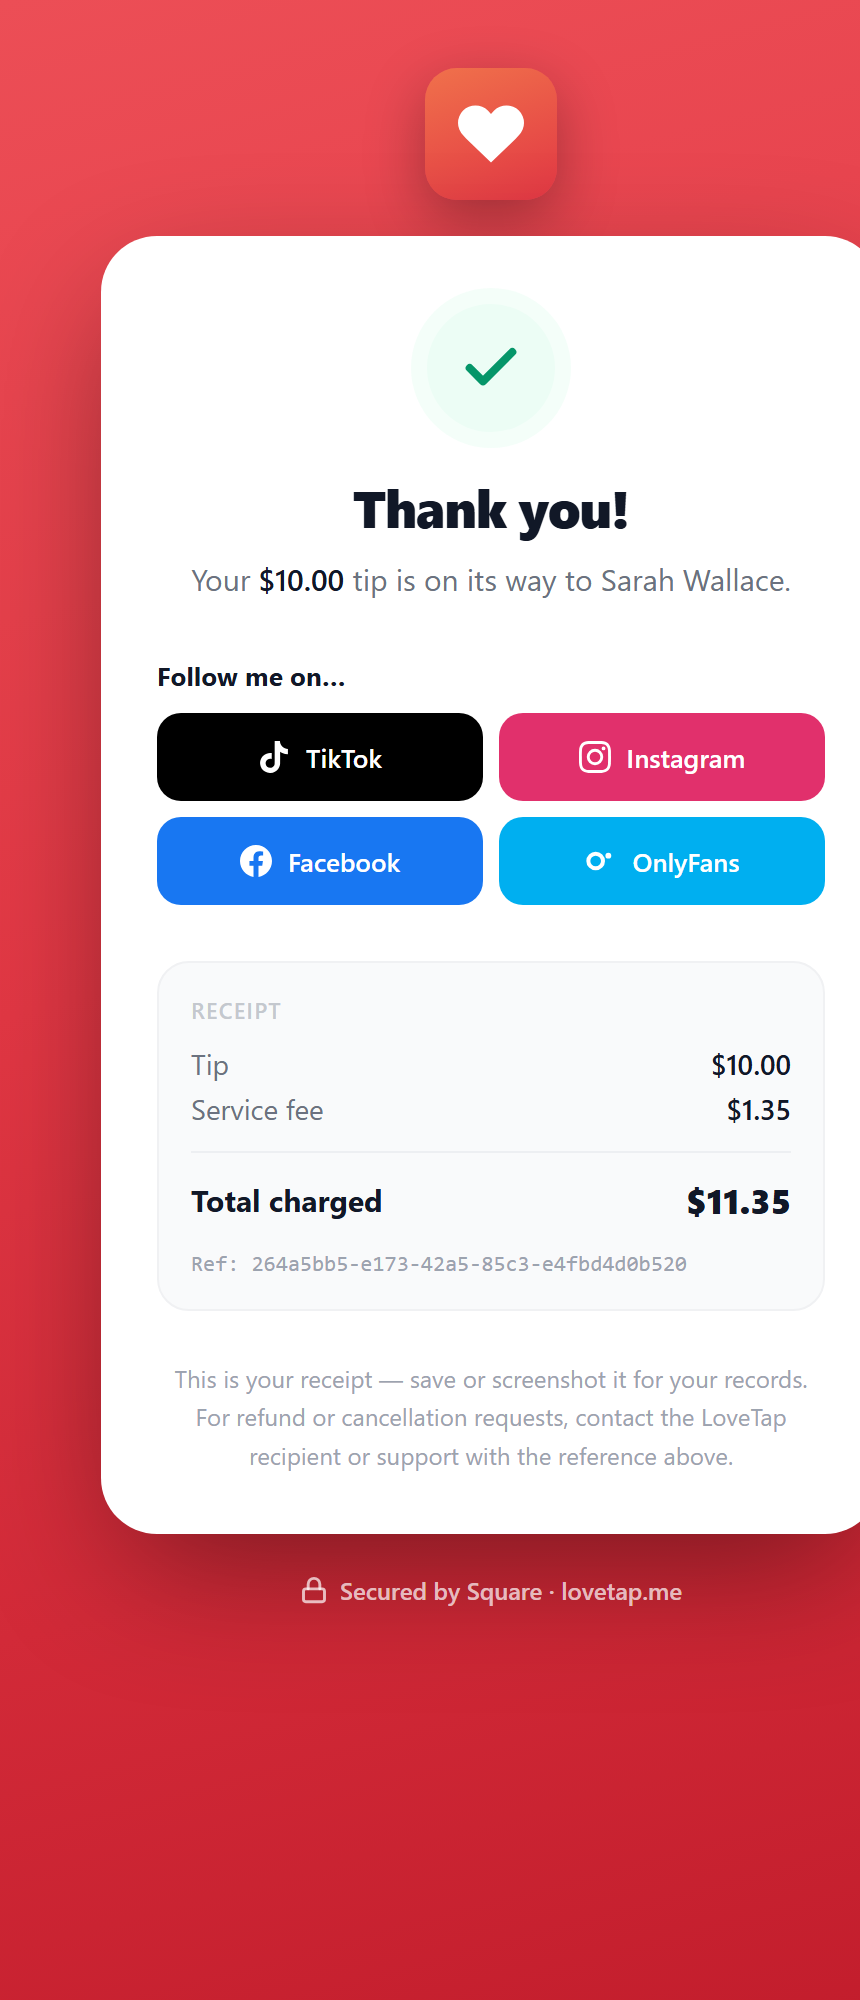
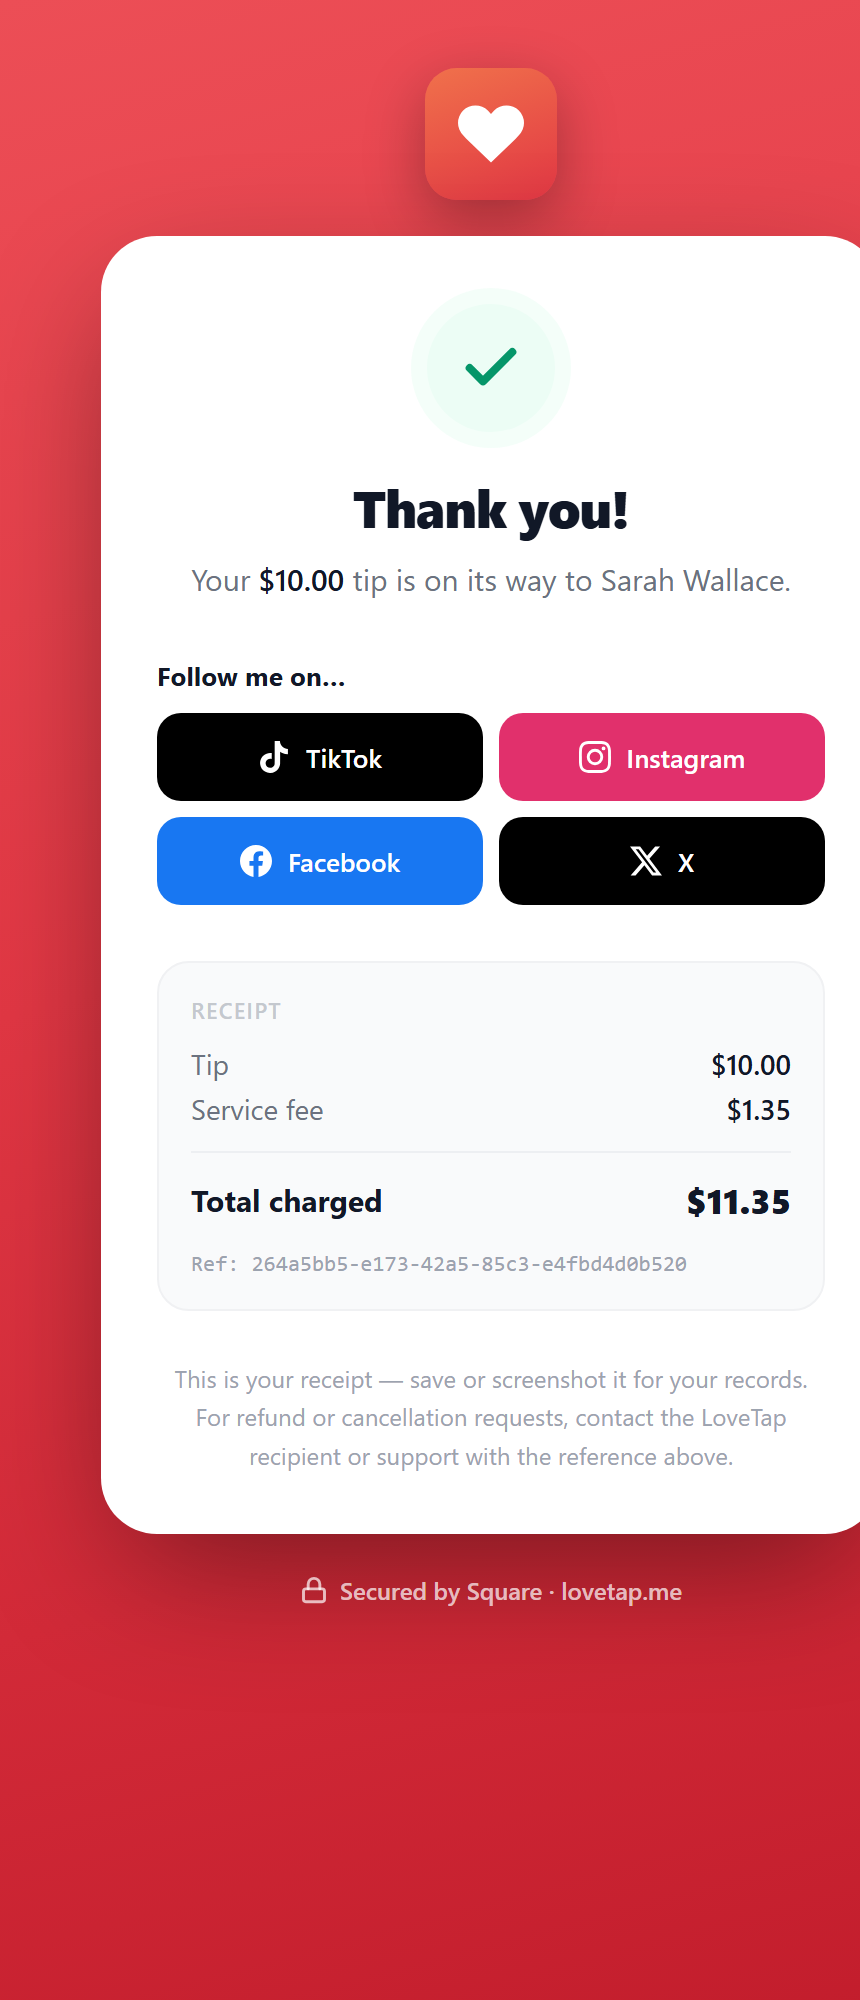
Replace OnlyFans with X across socials (model, profile, tip page, admin, guides)

Changed region(s): [[0.5744, 0.403, 0.9674, 0.465]]

diff --git a/src/app/t/[uid]/tip-flow.tsx b/src/app/t/[uid]/tip-flow.tsx
@@ -21,7 +21,7 @@ interface Quote {
     tiktok?: string;
     instagram?: string;
     facebook?: string;
-    onlyfans?: string;
+    x?: string;
   };
   square: {
     applicationId: string | null;
@@ -729,7 +729,7 @@ const SOCIAL_BRAND: Record<string, string> = {
   tiktok: "#000000",
   instagram: "#E1306C",
   facebook: "#1877F2",
-  onlyfans: "#00AFF0",
+  x: "#000000",
 };
 
 // Brand glyphs (white, sized to the button). Simple recognizable marks.
@@ -753,11 +753,10 @@ function SocialIcon({ platform }: { platform: string }) {
         <path d="M12.53.02C13.84 0 15.14.01 16.44 0c.08 1.53.63 3.09 1.75 4.17 1.12 1.11 2.7 1.62 4.24 1.79v4.03c-1.44-.05-2.89-.35-4.2-.97-.57-.26-1.1-.59-1.62-.93-.01 2.92.01 5.84-.02 8.75-.08 1.4-.54 2.79-1.35 3.94-1.31 1.92-3.58 3.17-5.91 3.21-1.43.08-2.86-.31-4.08-1.03-2.02-1.19-3.44-3.37-3.65-5.71-.02-.5-.03-1-.01-1.49.18-1.9 1.12-3.72 2.58-4.96 1.66-1.44 3.98-2.13 6.15-1.72.02 1.48-.04 2.96-.04 4.44-.99-.32-2.15-.23-3.02.37-.63.41-1.11 1.04-1.36 1.75-.21.51-.15 1.07-.14 1.61.24 1.64 1.82 3.02 3.5 2.87 1.12-.01 2.19-.66 2.77-1.61.19-.33.4-.67.41-1.06.1-1.79.06-3.57.07-5.36.01-4.03-.01-8.05.02-12.07" />
       </svg>
     );
-  // OnlyFans — the ring "o" mark.
+  // X (formerly Twitter) — the X mark.
   return (
-    <svg viewBox="0 0 24 24" fill="none" className={c}>
-      <circle cx="8" cy="12" r="5.5" stroke="currentColor" strokeWidth="3" />
-      <circle cx="17.5" cy="8" r="2.2" fill="currentColor" />
+    <svg viewBox="0 0 24 24" fill="currentColor" className={c}>
+      <path d="M18.9 1.15h3.68l-8.04 9.19L24 22.85h-7.41l-5.8-7.58-6.64 7.58H.46l8.6-9.83L0 1.15h7.59l5.24 6.93 6.07-6.93Zm-1.3 19.5h2.04L6.49 3.24H4.3l13.3 17.41Z" />
     </svg>
   );
 }
@@ -767,7 +766,7 @@ function SocialIcon({ platform }: { platform: string }) {
 function FollowLinks({
   socials,
 }: {
-  socials?: { tiktok?: string; instagram?: string; facebook?: string; onlyfans?: string };
+  socials?: { tiktok?: string; instagram?: string; facebook?: string; x?: string };
 }) {
   if (!socials) return null;
   const links = SOCIAL_PLATFORMS.map((p) => ({

diff --git a/src/app/(dashboard)/customers/[id]/page.tsx b/src/app/(dashboard)/customers/[id]/page.tsx
@@ -8,7 +8,7 @@ import { formatCurrency, formatDate, formatDateTime } from "@/lib/utils";
 import { SOCIAL_PLATFORMS, socialUrl } from "@/lib/socials";
 
 type CustomerData = {
-  customer: { _id: string; name: string; email: string; phone: string; bankAccountStatus: string; active: boolean; createdAt: string; socials?: { tiktok?: string; instagram?: string; facebook?: string; onlyfans?: string } };
+  customer: { _id: string; name: string; email: string; phone: string; bankAccountStatus: string; active: boolean; createdAt: string; socials?: { tiktok?: string; instagram?: string; facebook?: string; x?: string } };
   transactions: Array<{ _id: string; squarePaymentId?: string; quoteId?: string; amount: number; fee: number; totalCharged: number; status: string; createdAt: string }>;
   payouts: Array<{ _id: string; amount: number; status: string; scheduledAt: string; completedAt: string | null }>;
   nfcChips: Array<{ _id: string; chipUid: string; status: string }>;

diff --git a/src/lib/socials.ts b/src/lib/socials.ts
@@ -1,6 +1,6 @@
 // Social platforms a worker can share on their tip receipt.
 
-export type SocialPlatform = "tiktok" | "instagram" | "facebook" | "onlyfans";
+export type SocialPlatform = "tiktok" | "instagram" | "facebook" | "x";
 
 export const SOCIAL_PLATFORMS: {
   key: SocialPlatform;
@@ -11,7 +11,7 @@ export const SOCIAL_PLATFORMS: {
   { key: "tiktok", label: "TikTok", base: "https://www.tiktok.com/@", placeholder: "@username" },
   { key: "instagram", label: "Instagram", base: "https://www.instagram.com/", placeholder: "@username" },
   { key: "facebook", label: "Facebook", base: "https://www.facebook.com/", placeholder: "username or page" },
-  { key: "onlyfans", label: "OnlyFans", base: "https://onlyfans.com/", placeholder: "username" },
+  { key: "x", label: "X", base: "https://x.com/", placeholder: "@username" },
 ];
 
 // Turn a stored handle or full URL into an https link. Accepts either

diff --git a/src/app/portal/profile/page.tsx b/src/app/portal/profile/page.tsx
@@ -6,8 +6,8 @@ import { getToken, setToken, clearToken, api } from "../auth";
 import { Card, Field, PrimaryButton, ErrorBox, Footer, Nav } from "../ui";
 import { SOCIAL_PLATFORMS } from "@/lib/socials";
 
-type Socials = { tiktok: string; instagram: string; facebook: string; onlyfans: string };
-const EMPTY_SOCIALS: Socials = { tiktok: "", instagram: "", facebook: "", onlyfans: "" };
+type Socials = { tiktok: string; instagram: string; facebook: string; x: string };
+const EMPTY_SOCIALS: Socials = { tiktok: "", instagram: "", facebook: "", x: "" };
 
 export default function PortalProfile() {
   const router = useRouter();

diff --git a/src/lib/models/Customer.ts b/src/lib/models/Customer.ts
@@ -24,7 +24,7 @@ export interface ICustomer extends Document {
     tiktok?: string;
     instagram?: string;
     facebook?: string;
-    onlyfans?: string;
+    x?: string;
   };
   active: boolean;
   createdAt: Date;
@@ -53,7 +53,7 @@ const CustomerSchema = new Schema<ICustomer>(
       tiktok: { type: String, default: "" },
       instagram: { type: String, default: "" },
       facebook: { type: String, default: "" },
-      onlyfans: { type: String, default: "" },
+      x: { type: String, default: "" },
     },
     active: { type: Boolean, default: true },
   },

diff --git a/src/app/api/mobile/tip/create-intent/route.ts b/src/app/api/mobile/tip/create-intent/route.ts
@@ -140,7 +140,7 @@ export async function POST(req: NextRequest) {
       tiktok: recipient.socials?.tiktok || "",
       instagram: recipient.socials?.instagram || "",
       facebook: recipient.socials?.facebook || "",
-      onlyfans: recipient.socials?.onlyfans || "",
+      x: recipient.socials?.x || "",
     },
     square: {
       applicationId: squareApplicationId,

diff --git a/src/app/api/mobile/portal/profile/route.ts b/src/app/api/mobile/portal/profile/route.ts
@@ -41,7 +41,7 @@ export async function PATCH(req: NextRequest) {
       tiktok: String(socials.tiktok || "").trim(),
       instagram: String(socials.instagram || "").trim(),
       facebook: String(socials.facebook || "").trim(),
-      onlyfans: String(socials.onlyfans || "").trim(),
+      x: String(socials.x || "").trim(),
     };
   }
 

diff --git a/src/app/api/mobile/portal/me/route.ts b/src/app/api/mobile/portal/me/route.ts
@@ -30,7 +30,7 @@ export async function GET(req: NextRequest) {
         tiktok: customer.socials?.tiktok || "",
         instagram: customer.socials?.instagram || "",
         facebook: customer.socials?.facebook || "",
-        onlyfans: customer.socials?.onlyfans || "",
+        x: customer.socials?.x || "",
       },
     },
   });
